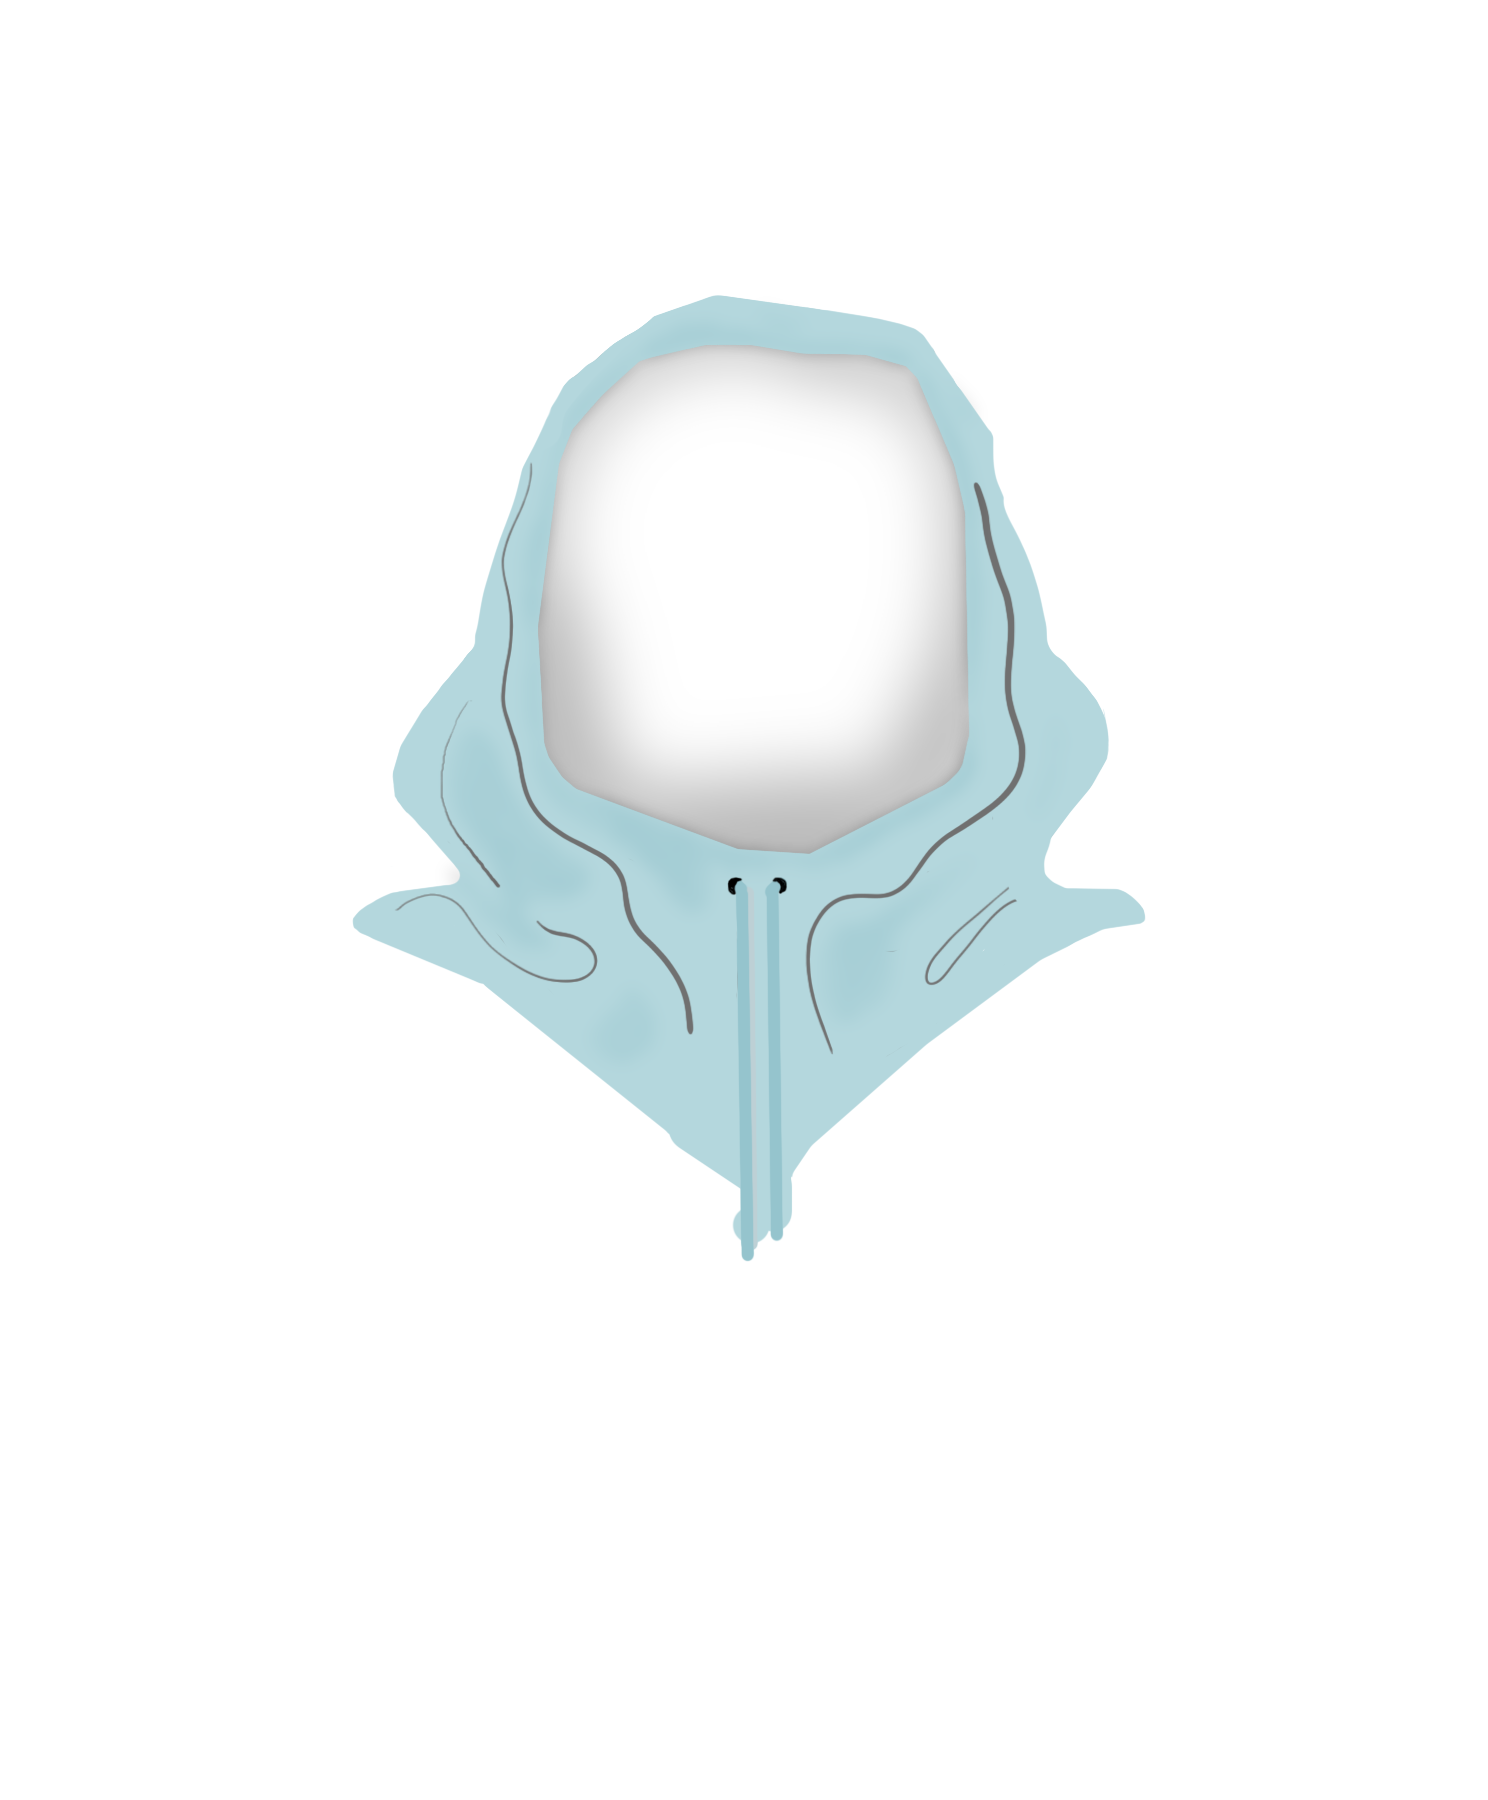
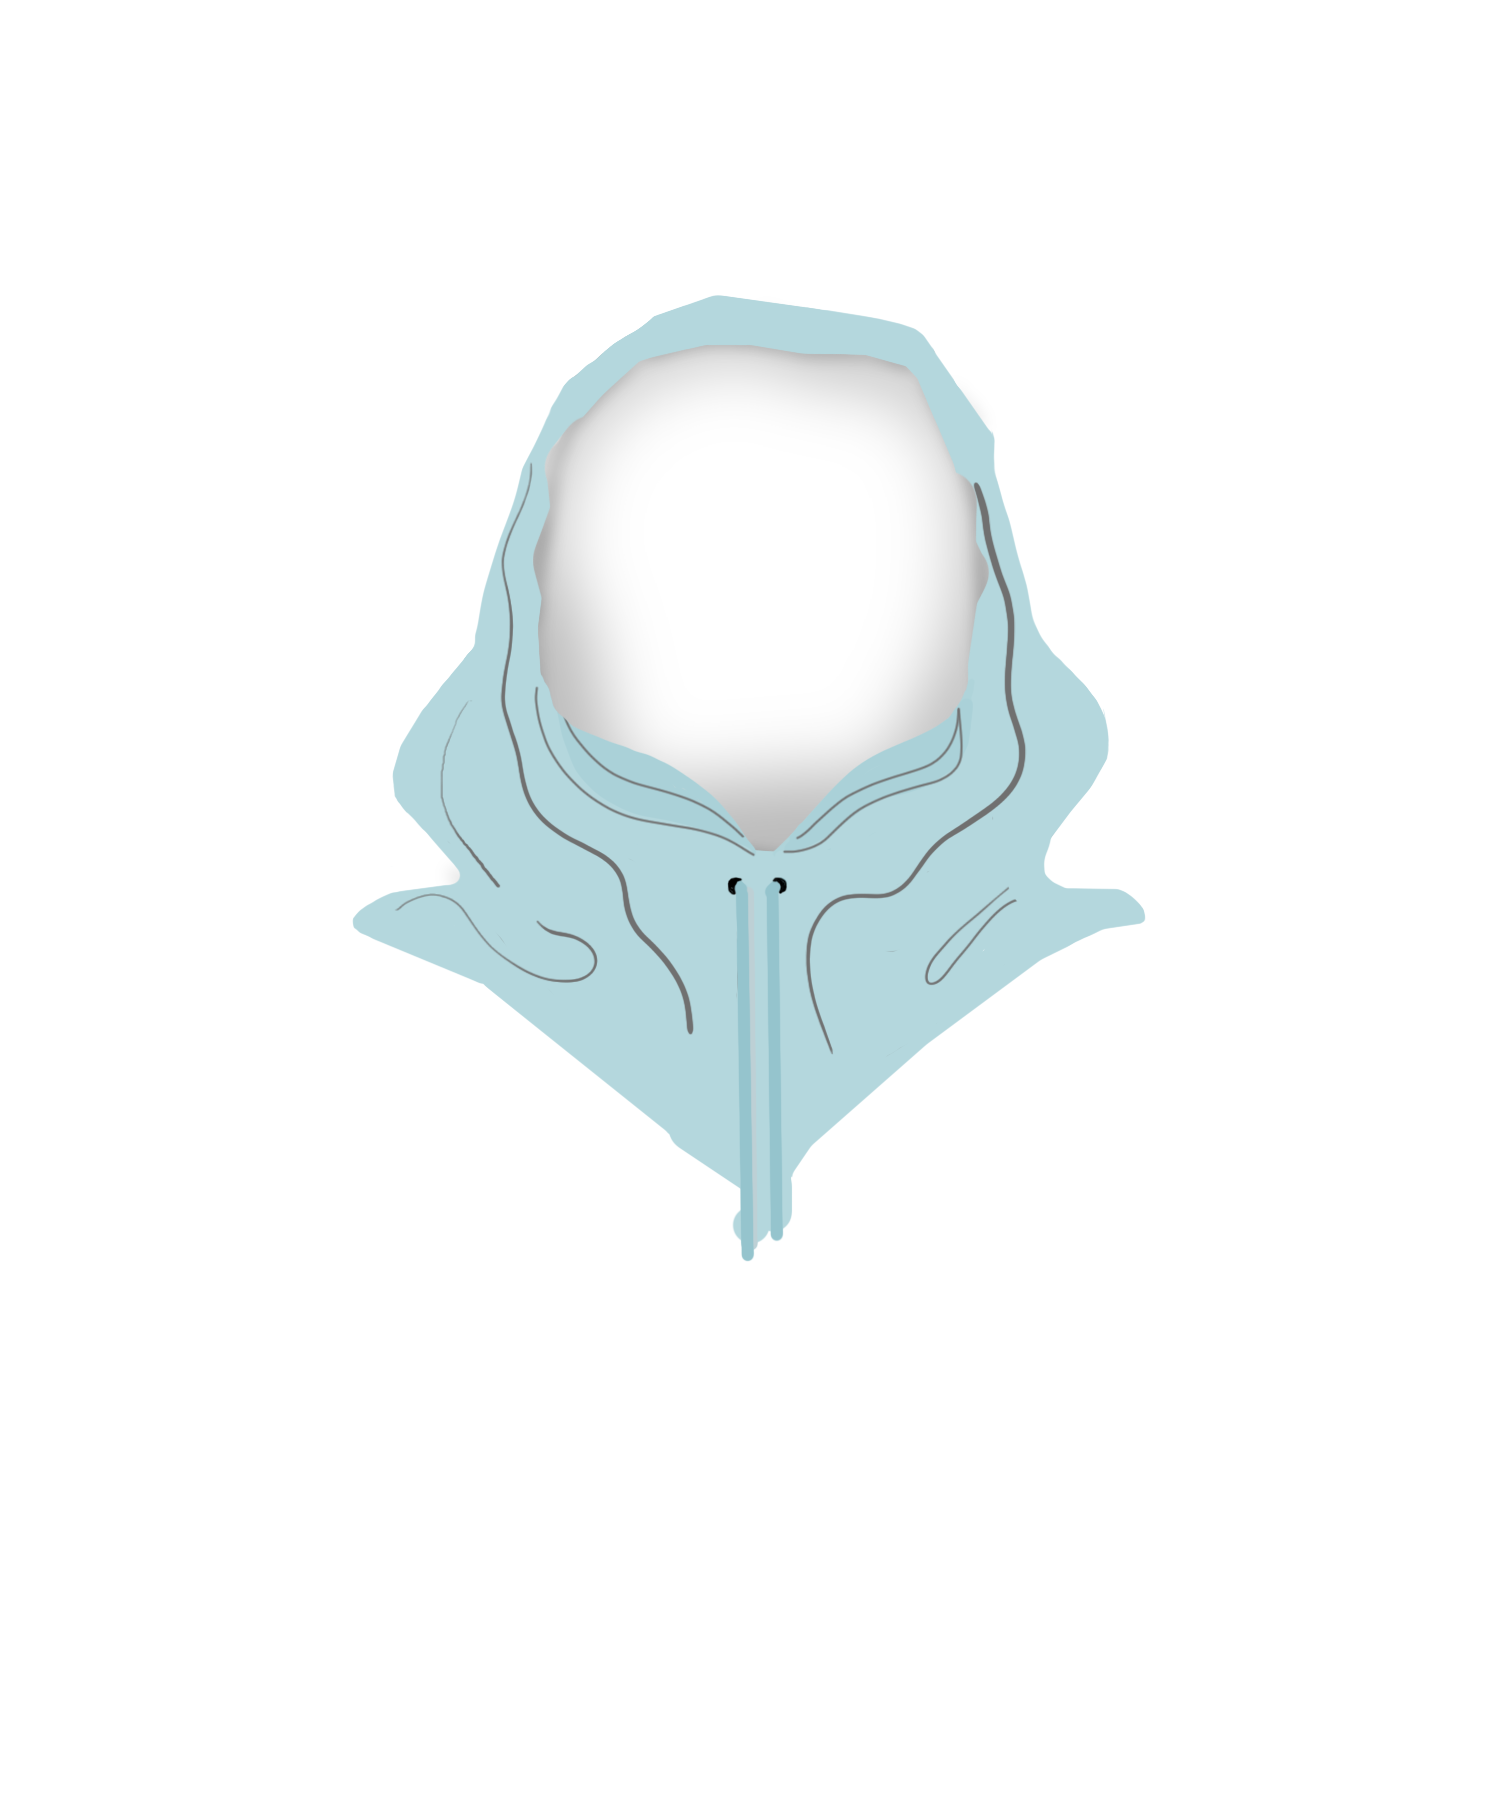
Fix back faces for gummies

diff --git a/2422.js b/2422.js
@@ -27,17 +27,9 @@ losOsosSchema = {
                     assets: ["./assets/district_yellow.png", "./assets/district_texture.png"],
                 },
                 {
-                    name: "Black",   
-                    assets: ["./assets/district_black.png", "./assets/district_texture.png"],
-                },
-                {
                     name: "Purple",   
                     assets: ["./assets/district_purple.png", "./assets/district_texture.png"],
                 },
-                {
-                    name: "White",   
-                    assets: ["./assets/district_gray.png", "./assets/district_texture.png"],
-                }
             ]
         },
         {
@@ -67,7 +59,7 @@ losOsosSchema = {
                         tint: ["#ff0000", "#FFFF00", "#00ec00", "#ff7800"],
                     }, "./assets/species_gummy_lights.png"
                     ],
-                    chance: 1000,
+                    chance: 0.1,
                 },
                 { 
                     name: "Mechabear",   
@@ -578,16 +570,18 @@ losOsosSchema = {
                 },
                 { 
                     name: "Noya hat",
-                    type: PFP.ASSET_FRONT,
+                    type: PFP.ASSET_DUAL,
                     assets: [
                         {
                             image: "./assets/headwear_hat_cap.png",
                             tint: true,
                         },
+                        "./assets/headwear_cap_back.png",
                         {
                             image: "./assets/headwear_hat_visor.png",
                             tint: true,
                         },
+                        "./assets/empty.png",
                         {
                             image: "./assets/headwear_hat_noya.png",
                             tint: false,
@@ -726,9 +720,8 @@ losOsosSchema = {
                     chance: 0.25,
                 },
                 {
-                    name: "Hipster hat", 
+                    name: "Pork pie hat", 
                     type: PFP.ASSET_DUAL,
-                    chance: 1000,
                     assets: [
                         {
                             image: "./assets/headwear_hipster_hat1.png",
@@ -756,7 +749,8 @@ losOsosSchema = {
                 },
                 { 
                     name: "Ryan Bell's Moonbird", 
-                    asset: "./assets/headwear_ryans_owl.png",
+                    type: PFP.ASSET_DUAL,
+                    assets: ["./assets/headwear_ryans_owl.png", "./assets/headwear_ryans_owl_back.png"],
                 },
                 { 
                     name: "Mohawk punk", 
@@ -1059,22 +1053,15 @@ losOsosSchema = {
                     ],
                 },
                 { 
-                    name: "Dangerous", 
-                    asset: "./assets/mouth_hannibal.png",
-                    chance: 0.3,
-                    level: 305,
-                },
-                { 
                     name: "Salmon", 
                     asset: "./assets/mouth_salmon.png",
                 },
                 { 
                     name: "Wheat straw", 
                     asset: "./assets/mouth_wheat_straw.png",
-                    level: 250,
                 },
                 { 
-                    name: "Confused", 
+                    name: "Hmmmm", 
                     asset: "./assets/mouth_confused.png",
                     level: 250,
                 },
